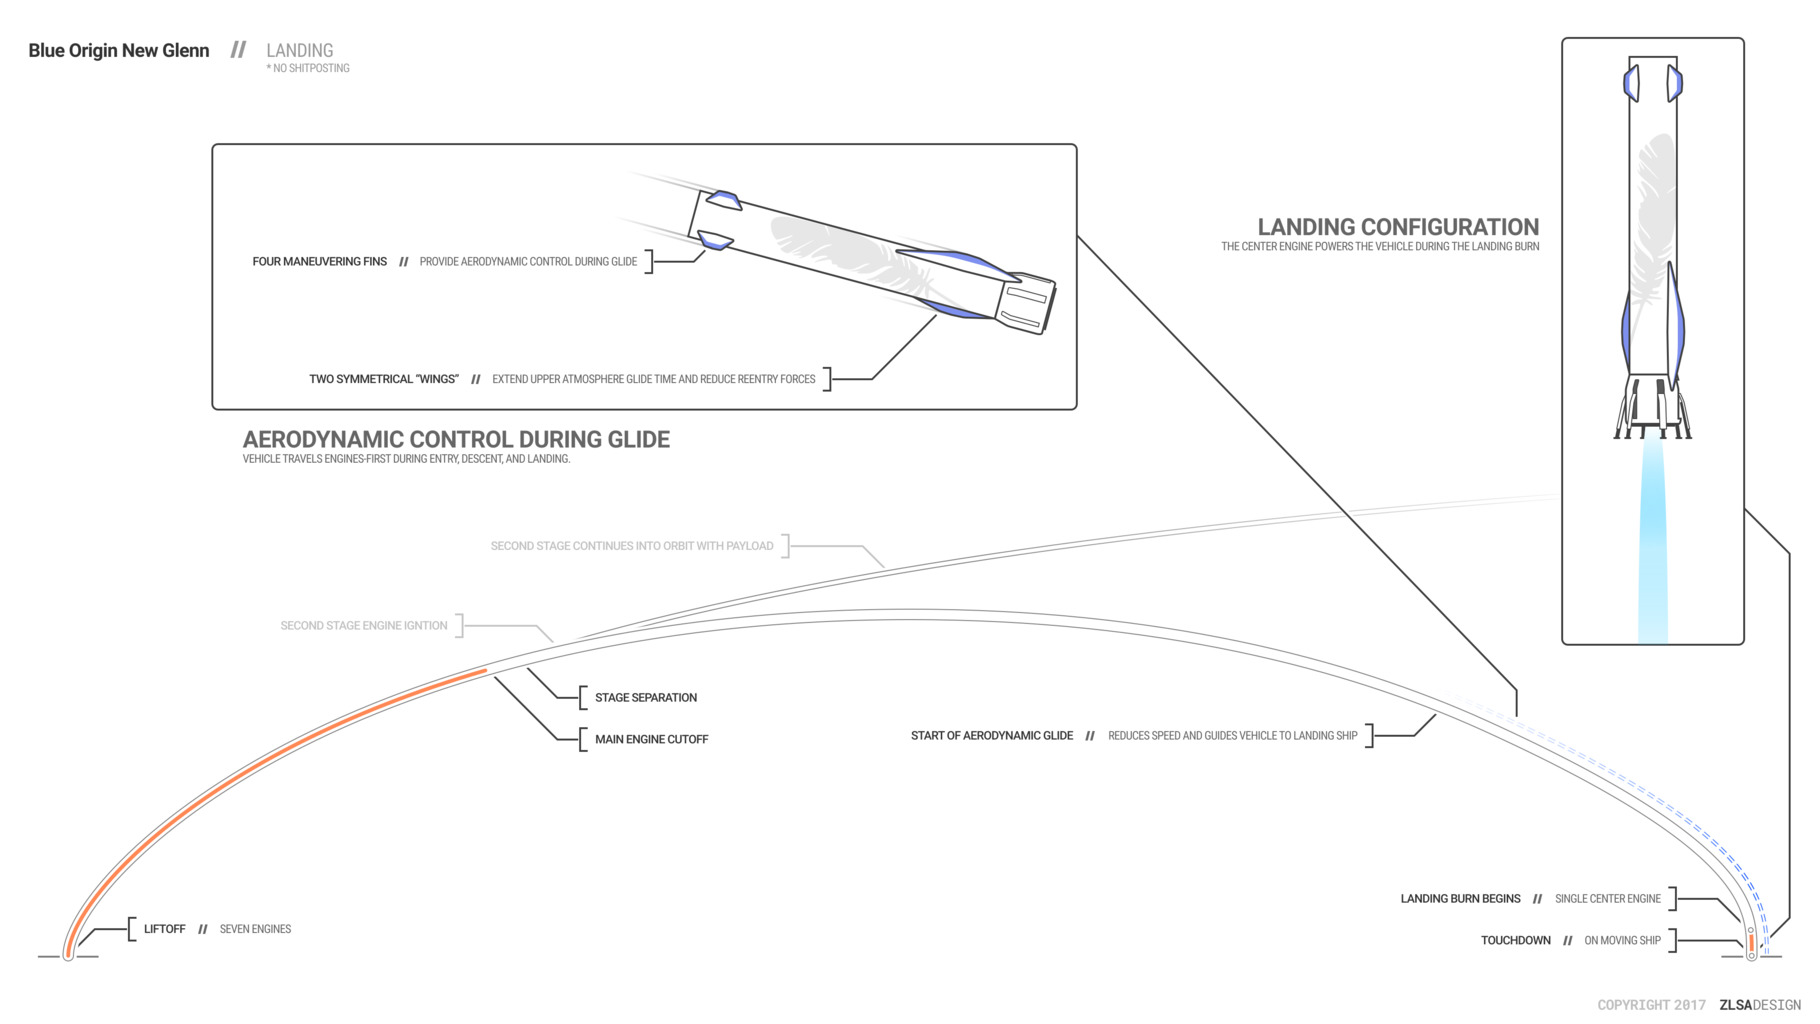
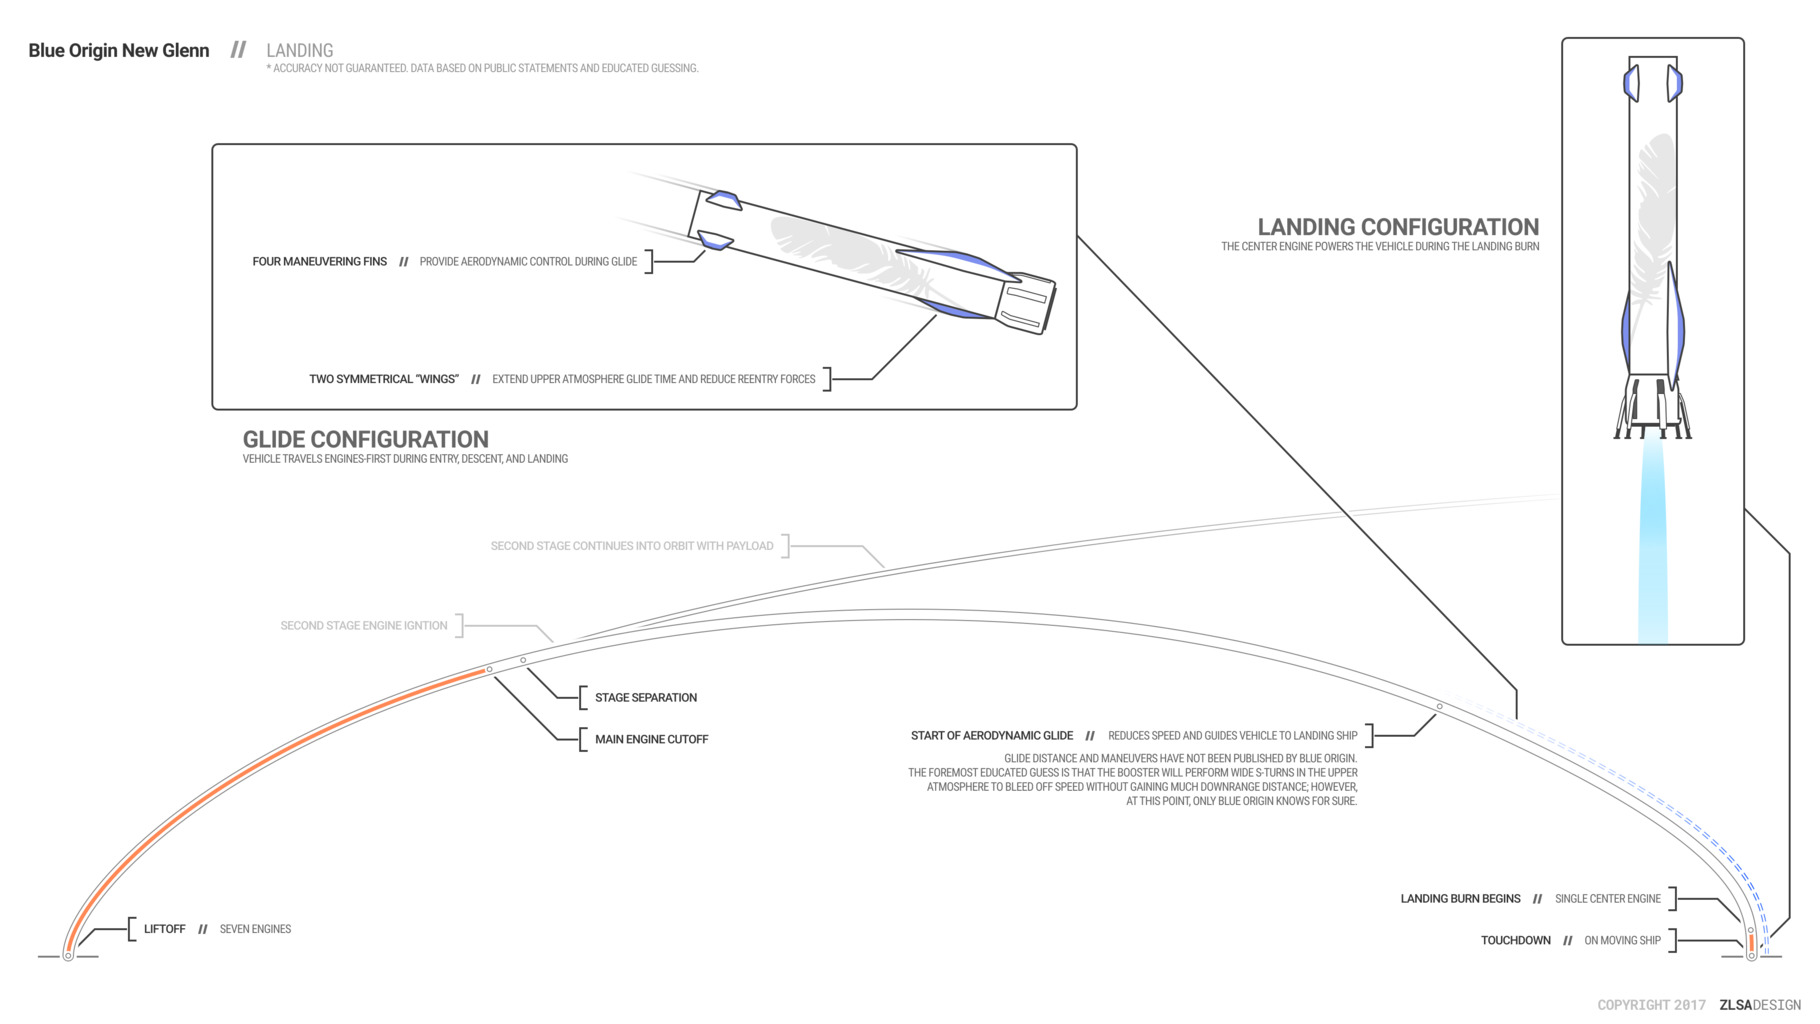
fixed extraneous files in the wrong place; tweaked lots of infographics; improved new glenn landing infographic

Changed region(s): [[0.4923, 0.7188, 0.7692, 0.8125], [0.1231, 0.4062, 0.3692, 0.4375], [0.1538, 0.0625, 0.3692, 0.0938]]

diff --git a/themes/zlsadesign/static/css/style.css b/themes/zlsadesign/static/css/style.css
@@ -1501,7 +1501,7 @@ body.loaded #background {
       padding-top: 0; } }
   #hero .hero-contents {
     box-shadow: 0 0 64px rgba(0, 0, 0, 0.6);
-    background-color: rgba(0, 0, 0, 0.6);
+    background-color: #ddd;
     background-repeat: no-repeat;
     background-size: cover;
     background-position: center;

diff --git a/themes/zlsadesign/src/css/hero.scss b/themes/zlsadesign/src/css/hero.scss
@@ -53,7 +53,7 @@ body.loaded #background {
       box-shadow: none;
     }
     
-    background-color: rgba(black, 0.6);
+    background-color: #ddd;
     background-repeat: no-repeat;
     background-size: cover;
     background-position: center;

diff --git a/tools/process-all-infographics.py b/tools/process-all-infographics.py
@@ -6,4 +6,7 @@ import os
 for filename in glob.iglob('../infographic/**/*.svg', recursive=True):
   filename = filename[len('../infographic/'):]
 
+  if 'elements' in filename:
+    continue
+
   os.system('./process-infographic.sh ' + filename)

diff --git a/content/infographic/trajectory/blue-origin-new-glenn-booster-dpl.md b/content/infographic/trajectory/blue-origin-new-glenn-booster-dpl.md
@@ -30,5 +30,27 @@ file = "trajectory/blue-origin-new-glenn-booster-dpl"
 This is the approximate trajectory of the [Blue Origin New Glenn
 booster](/tags/blue-origin-new-glenn-booster/) during a launch.
 
+The New Glenn booster will be recovered on every mission.
+
 <!--more-->
 
+# Glide
+
+The two "wings" on the lower half of the booster are for aerodynamic
+lift; however, their purpose hasn't been officially given (besides
+Bezos's statements that it helps reduce entry stresses.) It's a good
+guess that they'll be used (in conjunction with the four maneuvering
+fins mounted to the interstage) to perform wide S-turns in the upper
+atmosphere, to help bleed off speed without severely impacting
+downrange distance (which would require the recovery vessel to travel
+far further than necessary.)
+
+# Landing
+
+The booster lands atop the deck of a moving ship. It's been confirmed
+that the ship will in fact be moving at the time of landing, and that
+it's not just an artistic liberty taken by the animators. Bezos said
+that the moving ship increases stability; in addition, the simple
+linear motion of the ship isn't very hard to account for.
+
+I personally expect New Glenn to nail the landings on the moving ship.
